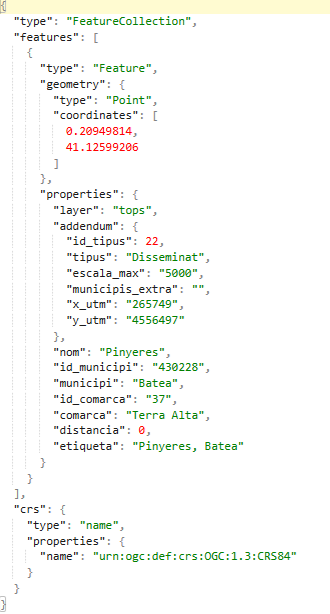
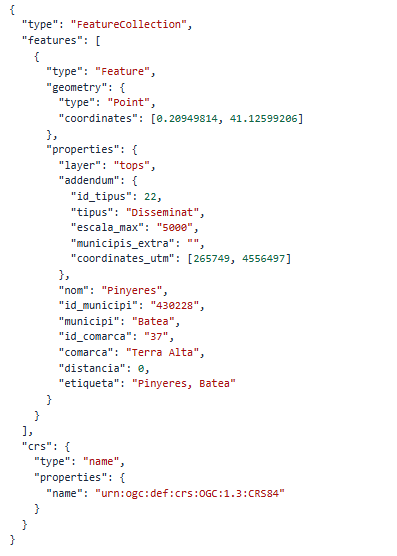
Deployed 8ba2302 with MkDocs version: 1.5.3

diff --git a/parametres_autocompletar.es/index.html b/parametres_autocompletar.es/index.html
@@ -1527,13 +1527,8 @@
 <td>Direcciones</td>
 </tr>
 <tr>
-<td><strong>addendum.x_utm</strong></td>
-<td>Coordenada X UTM</td>
-<td>Todos</td>
-</tr>
-<tr>
-<td><strong>addendum.y_utm</strong></td>
-<td>Coordenada Y UTM</td>
+<td><strong>addendum.coordinates_utm</strong></td>
+<td>Coordenadas UTM</td>
 <td>Todos</td>
 </tr>
 <tr>
@@ -1572,10 +1567,10 @@
 </thead>
 <tbody>
 <tr>
-<td><a href="https://eines.icgc.cat/geocodificador/autocompletar?text=serra%20de%20pava&amp;layers=tops&amp;size=1" target="_blank">https://eines.icgc.cat/geocodificador/autocompletar?text=serra%20de%20pava&amp;layers=tops&amp;size=1</a></td>
+<td><a href="https://eines.icgc.cat/geocodificador/autocompletar?text=el%20tibidabo%20,Barcelona&amp;layers=tops&amp;size=1&amp;layers=tops&amp;size=1" target="_blank">https://eines.icgc.cat/geocodificador/autocompletar?text=el%20tibidabo%20,Barcelona&amp;layers=tops&amp;size=1</a></td>
 </tr>
 <tr>
-<td><img alt="" src="../img/autocompletar-tops.png" /></td>
+<td><img alt="" src="../img/cerca-top.png" /></td>
 </tr>
 </tbody>
 </table>

diff --git a/parametres_cerca.es/index.html b/parametres_cerca.es/index.html
@@ -1522,13 +1522,8 @@
 <td>Direcciones</td>
 </tr>
 <tr>
-<td><strong>addendum.x_utm</strong></td>
-<td>Coordenada X UTM</td>
-<td>Todos</td>
-</tr>
-<tr>
-<td><strong>addendum.y_utm</strong></td>
-<td>Coordenada Y UTM</td>
+<td><strong>addendum.coordinates_utm</strong></td>
+<td>Coordenadas UTM</td>
 <td>Todos</td>
 </tr>
 <tr>
@@ -1552,7 +1547,7 @@
 </thead>
 <tbody>
 <tr>
-<td><a href="https://eines.icgc.cat/geocodificador/cerca?text=nou%2010%20girona&amp;layers=address&amp;size=1" target="_blank">https://eines.icgc.cat/geocodificador/cerca?text=nou%2010%20girona&amp;layers=address&amp;size=1</a></td>
+<td><a href="https://eines.icgc.cat/geocodificador/cerca?text=nou%2010%20,girona&amp;layers=address&amp;size=1" target="_blank">https://eines.icgc.cat/geocodificador/cerca?text=nou%2010%20,girona&amp;layers=address&amp;size=1</a></td>
 </tr>
 <tr>
 <td><img alt="" src="../img/cerca-adreces.png" /></td>

diff --git a/parametres_invers.es/index.html b/parametres_invers.es/index.html
@@ -1428,13 +1428,8 @@
 <td>Direcciones</td>
 </tr>
 <tr>
-<td><strong>addendum.x_utm</strong></td>
-<td>Coordenada X UTM</td>
-<td>Todos</td>
-</tr>
-<tr>
-<td><strong>addendum.y_utm</strong></td>
-<td>Coordenada Y UTM</td>
+<td><strong>addendum.coordinates_utm</strong></td>
+<td>Coordenadas UTM</td>
 <td>Todos</td>
 </tr>
 <tr>
